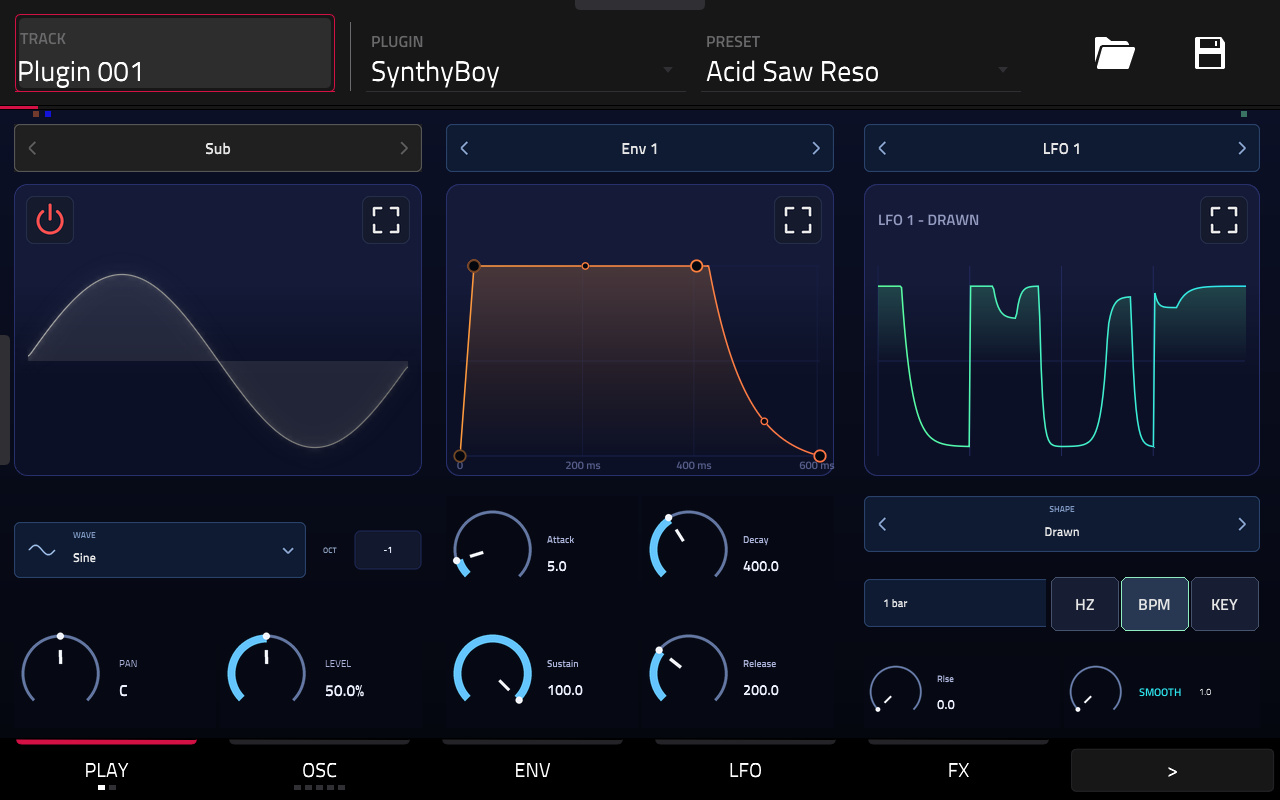
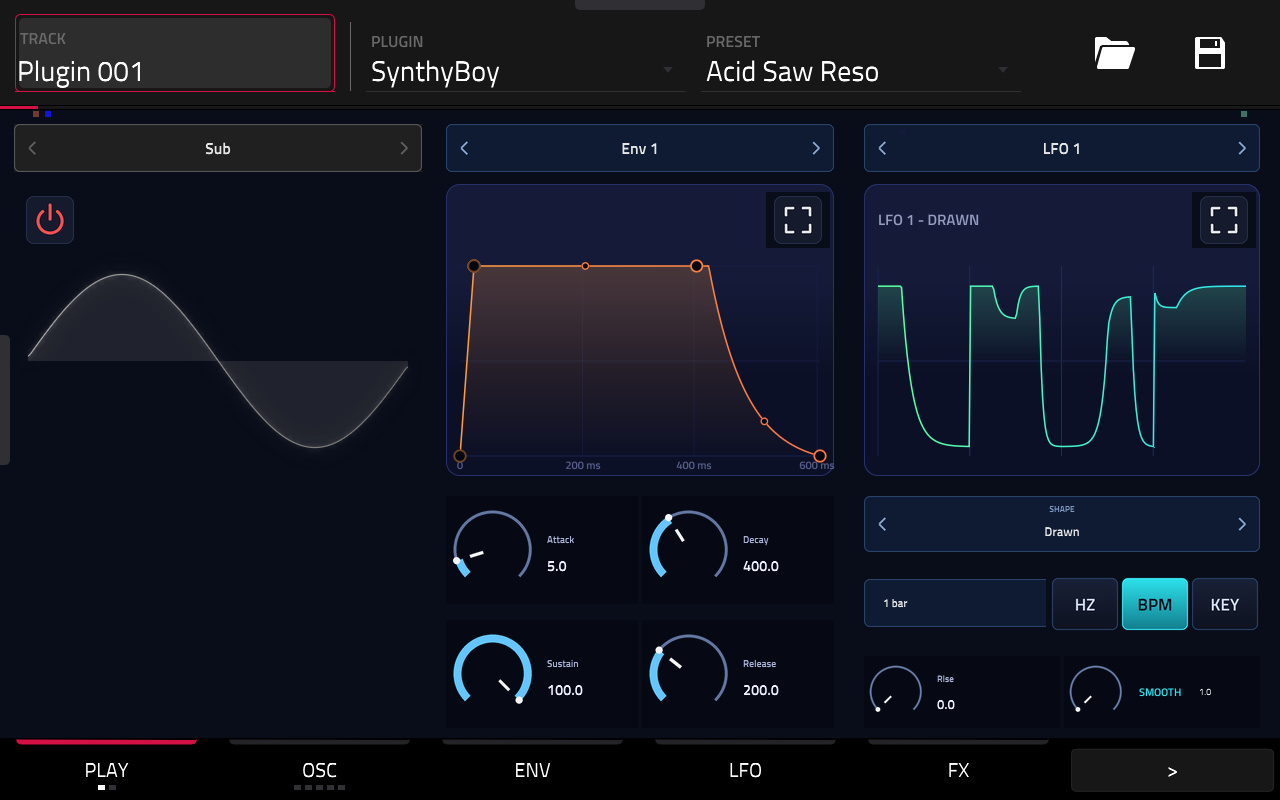
Record actual deployed Play screenshot including inactive control regression

diff --git a/docs/ui-components/native-katalogus.html b/docs/ui-components/native-katalogus.html
@@ -4,7 +4,7 @@
 <style>body{margin:auto;padding:4vw;max-width:1380px;background:#10131a;color:#f0f2fa;font:16px system-ui}a{color:#a9cafe}section{padding:16px 0;border-top:1px solid #465064}.pair{display:flex;gap:16px;flex-wrap:wrap}figure{margin:0;flex:1 1 320px}img{display:block;width:100%;height:auto}figcaption{padding:16px 0;color:#bac2d0}</style>
 <a href="kepes-katalogus.html">← Komponensek</a><h1>SynthyBoy képernyők</h1>
 <p>Képernyőnként egy aktuális kép. Régi referencia csak a még nyitott átállásoknál szerepel.</p>
-<section id="play"><h2>Play</h2><p>Fejlesztési előnézet · offline render, nem hardveres felvétel</p><div class="pair"><figure><a href="../screens/play.jpg?v=7f89d9b70fba"><img src="../screens/play.jpg?v=7f89d9b70fba" alt="Play · aktuális előnézet"></a><figcaption>Play · aktuális előnézet</figcaption></figure></div></section>
+<section id="play"><h2>Play</h2><p>Fejlesztési előnézet · offline render, nem hardveres felvétel</p><div class="pair"><figure><a href="../screens/play.jpg?v=3daea1389703"><img src="../screens/play.jpg?v=3daea1389703" alt="Play · aktuális előnézet"></a><figcaption>Play · aktuális előnézet</figcaption></figure></div></section>
 <section id="macros"><h2>Macros</h2><p>Fejlesztési előnézet · offline render, nem hardveres felvétel</p><div class="pair"><figure><a href="../screens/macros.jpg?v=30747e5c7f90"><img src="../screens/macros.jpg?v=30747e5c7f90" alt="Macros · aktuális előnézet"></a><figcaption>Macros · aktuális előnézet</figcaption></figure></div></section>
 <section id="osc_a"><h2>Osc A</h2><p>Fejlesztési előnézet · offline render, nem hardveres felvétel</p><div class="pair"><figure><a href="../screens/osc_a.jpg?v=5148f2dc83a7"><img src="../screens/osc_a.jpg?v=5148f2dc83a7" alt="Osc A · aktuális előnézet"></a><figcaption>Osc A · aktuális előnézet</figcaption></figure></div></section>
 <section id="osc_b"><h2>Osc B</h2><p>Fejlesztési előnézet · offline render, nem hardveres felvétel</p><div class="pair"><figure><a href="../screens/osc_b.jpg?v=b066d75eff32"><img src="../screens/osc_b.jpg?v=b066d75eff32" alt="Osc B · aktuális előnézet"></a><figcaption>Osc B · aktuális előnézet</figcaption></figure></div></section>
